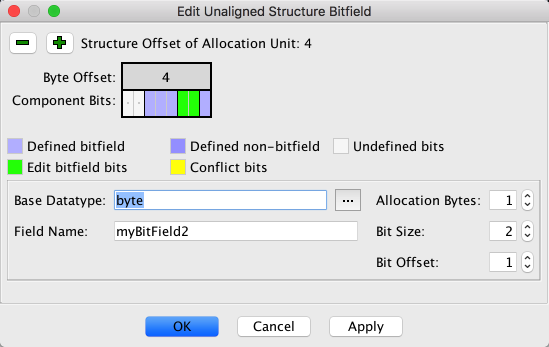
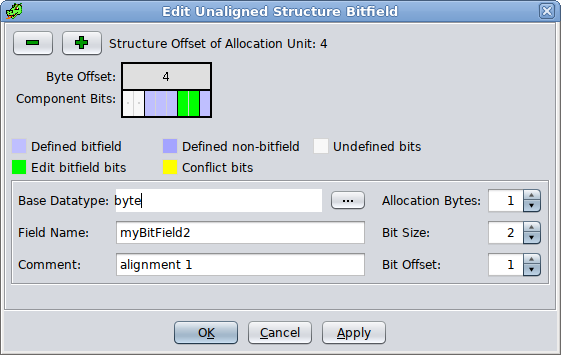
GT-3410 added field comment to bitfield editor

Changed region(s): [[0.0, 0.0, 1.0, 1.0], [0.6812, 0.634, 0.7741, 0.6916]]

diff --git a/Ghidra/Features/Base/src/main/java/ghidra/app/plugin/core/compositeeditor/BitFieldEditorPanel.java b/Ghidra/Features/Base/src/main/java/ghidra/app/plugin/core/compositeeditor/BitFieldEditorPanel.java
@@ -60,6 +60,7 @@ public class BitFieldEditorPanel extends JPanel {
 
 	private DataTypeSelectionEditor dtChoiceEditor;
 	private JTextField fieldNameTextField;
+	private JTextField fieldCommentTextField;
 	private SpinnerNumberModel allocSizeModel;
 	private JSpinnerWithMouseWheel allocSizeInput;
 	private SpinnerNumberModel bitOffsetModel;
@@ -156,6 +157,9 @@ public class BitFieldEditorPanel extends JPanel {
 		fieldNameTextField = new JTextField(20);
 		fieldNameTextField.setFocusable(true);
 
+		fieldCommentTextField = new JTextField(20);
+		fieldCommentTextField.setFocusable(true);
+
 		allocSizeModel = new SpinnerNumberModel(Long.valueOf(4), Long.valueOf(1), Long.valueOf(16),
 			Long.valueOf(1));
 		allocSizeInput = new JSpinnerWithMouseWheel(allocSizeModel);
@@ -189,8 +193,8 @@ public class BitFieldEditorPanel extends JPanel {
 		entryPanel.add(new JLabel("Bit Size:"));
 		entryPanel.add(bitSizeInput);
 
-		entryPanel.add(new JPanel());
-		entryPanel.add(new JPanel());
+		entryPanel.add(new JLabel("Comment:"));
+		entryPanel.add(fieldCommentTextField);
 
 		entryPanel.add(new JLabel("Bit Offset:"));
 		entryPanel.add(bitOffsetInput);
@@ -389,7 +393,7 @@ public class BitFieldEditorPanel extends JPanel {
 				: initialBaseDataType.getLength();
 		placementComponent.updateAllocation((int) allocationSize, allocationOffset);
 		placementComponent.initAdd(1, bitOffset);
-		initControls(null, initialBaseDataType, 1);
+		initControls(null, null, initialBaseDataType, 1);
 		enableControls(true);
 	}
 
@@ -403,6 +407,7 @@ public class BitFieldEditorPanel extends JPanel {
 	void initEdit(DataTypeComponent bitfieldDtc, int allocationOffset,
 			boolean useExistingAllocationSize) {
 		String initialFieldName = null;
+		String initialComment = null;
 		DataType initialBaseDataType = null;
 		int allocationSize = -1;
 		if (useExistingAllocationSize) {
@@ -413,6 +418,7 @@ public class BitFieldEditorPanel extends JPanel {
 				throw new IllegalArgumentException("unsupport data type component");
 			}
 			initialFieldName = bitfieldDtc.getFieldName();
+			initialComment = bitfieldDtc.getComment();
 			BitFieldDataType bitfieldDt = (BitFieldDataType) bitfieldDtc.getDataType();
 			initialBaseDataType = bitfieldDt.getBaseDataType();
 			if (allocationSize < 1) {
@@ -429,7 +435,8 @@ public class BitFieldEditorPanel extends JPanel {
 		placementComponent.updateAllocation(allocationSize, allocationOffset);
 		placementComponent.init(bitfieldDtc);
 		BitFieldAllocation bitFieldAllocation = placementComponent.getBitFieldAllocation(); // get updated instance
-		initControls(initialFieldName, initialBaseDataType, bitFieldAllocation.getBitSize());
+		initControls(initialFieldName, initialComment, initialBaseDataType,
+			bitFieldAllocation.getBitSize());
 		enableControls(bitfieldDtc != null);
 	}
 
@@ -437,13 +444,14 @@ public class BitFieldEditorPanel extends JPanel {
 		placementComponent.componentDeleted(ordinal);
 	}
 
-	private void initControls(String initialFieldName, DataType initialBaseDataType,
-			int initialBitSize) {
+	private void initControls(String initialFieldName, String initialComment,
+			DataType initialBaseDataType, int initialBitSize) {
 		updating = true;
 		try {
 			baseDataType = initialBaseDataType;
 			dtChoiceEditor.setCellEditorValue(initialBaseDataType);
 			fieldNameTextField.setText(initialFieldName);
+			fieldCommentTextField.setText(initialComment);
 
 			// Use current placementComponent to obtain initial values
 			allocSizeModel.setValue((long) placementComponent.getAllocationByteSize());
@@ -513,7 +521,7 @@ public class BitFieldEditorPanel extends JPanel {
 			deleteConflicts = (option == OptionDialog.OPTION_ONE);
 		}
 		placementComponent.applyBitField(baseDataType, fieldNameTextField.getText().trim(),
-			deleteConflicts, listener);
+			fieldCommentTextField.getText().trim(), deleteConflicts, listener);
 		enableControls(false);
 		return true;
 	}
@@ -522,6 +530,7 @@ public class BitFieldEditorPanel extends JPanel {
 		dtChoiceEditor.getBrowseButton().setEnabled(enable);
 		dtChoiceEditor.getDropDownTextField().setEnabled(enable);
 		fieldNameTextField.setEnabled(enable);
+		fieldCommentTextField.setEnabled(enable);
 		allocSizeInput.setEnabled(enable);
 		bitSizeInput.setEnabled(enable);
 		bitOffsetInput.setEnabled(enable);
@@ -529,6 +538,8 @@ public class BitFieldEditorPanel extends JPanel {
 			// TODO: set placementComponent mode to NONE
 			dtChoiceEditor.getDropDownTextField().setText("");
 			fieldNameTextField.setText(null);
+			fieldCommentTextField.setText(null);
+			;
 			bitOffsetModel.setValue(0L);
 			bitSizeModel.setValue(1L);
 		}

diff --git a/Ghidra/Features/Base/src/main/java/ghidra/app/plugin/core/compositeeditor/BitFieldPlacementComponent.java b/Ghidra/Features/Base/src/main/java/ghidra/app/plugin/core/compositeeditor/BitFieldPlacementComponent.java
@@ -371,8 +371,8 @@ public class BitFieldPlacementComponent extends JPanel implements Scrollable {
 		repaint();
 	}
 
-	void applyBitField(DataType baseDataType, String fieldName, boolean deleteConflicts,
-			CompositeChangeListener listener) {
+	void applyBitField(DataType baseDataType, String fieldName, String fieldComment,
+			boolean deleteConflicts, CompositeChangeListener listener) {
 		if (composite == null) {
 			throw new IllegalStateException("Composite not loaded");
 		}
@@ -408,18 +408,21 @@ public class BitFieldPlacementComponent extends JPanel implements Scrollable {
 
 		try {
 			String name = (fieldName != null && fieldName.length() != 0) ? fieldName : null;
+			String comment =
+				(fieldComment != null && fieldComment.length() != 0) ? fieldComment : null;
 			DataTypeComponent dtc;
 			if (composite instanceof Union) {
 				throw new UnsupportedOperationException(
 					"Union modification not currently supported");
 //				dtc = composite.insertBitField(ordinal, allocationByteSize,
 //					bitFieldAllocation.bitOffset, baseDataType, bitFieldAllocation.bitSize, name,
-//					null);
+//					comment);
 			}
 //			else {
 			Structure struct = (Structure) composite;
 			dtc = struct.insertBitFieldAt(allocationByteOffset, allocationByteSize,
-				bitFieldAllocation.bitOffset, baseDataType, bitFieldAllocation.bitSize, name, null);
+				bitFieldAllocation.bitOffset, baseDataType, bitFieldAllocation.bitSize, name,
+				comment);
 //			}
 			if (listener != null) {
 				listener.componentChanged(dtc.getOrdinal());

diff --git a/Ghidra/Features/Base/src/main/java/ghidra/app/plugin/core/compositeeditor/CompositeEditorTableAction.java b/Ghidra/Features/Base/src/main/java/ghidra/app/plugin/core/compositeeditor/CompositeEditorTableAction.java
@@ -81,6 +81,9 @@ abstract public class CompositeEditorTableAction extends DockingAction implement
 	}
 
 	protected void requestTableFocus() {
+		if (provider == null) {
+			return; // must have been disposed
+		}
 		JTable table = ((CompositeEditorPanel) provider.getComponent()).getTable();
 		if (table.isEditing()) {
 			table.getEditorComponent().requestFocus();
